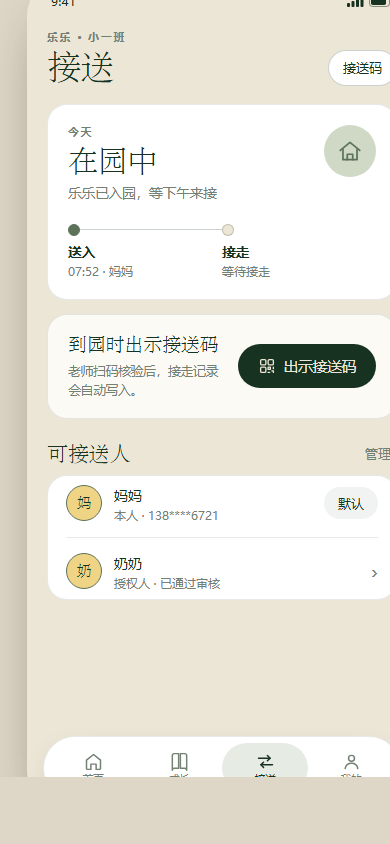
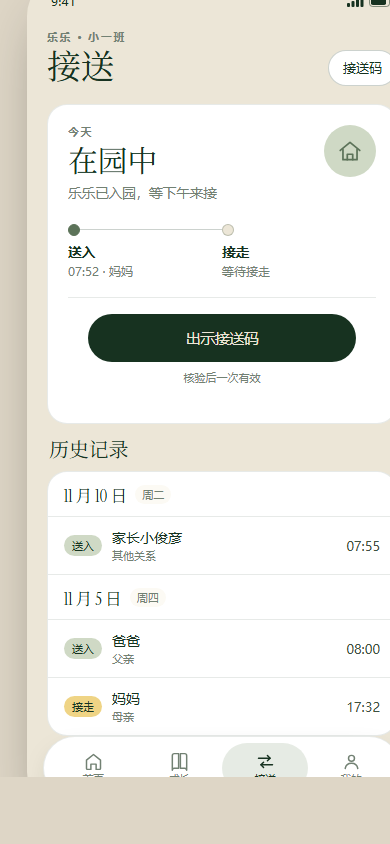
docs(design): 接送原型补齐历史记录并收回二维码 CTA
原型初版缺真实页面存在的「历史记录」，同时多了二维码卡与可接送人。
按登录态实际页面调整：凭证卡内放二维码 CTA，下面接历史记录列表。

diff --git a/docs/design-previews/2026-11-11-dna-validation/parent/02-pickup/index.html b/docs/design-previews/2026-11-11-dna-validation/parent/02-pickup/index.html
@@ -59,44 +59,52 @@
         </ol>
 
         <div class="rail-line" aria-hidden="true"><span></span></div>
+
+        <div class="pass-foot">
+          <button class="btn btn--primary btn--block" type="button">出示接送码</button>
+          <p class="pass-note">核验后一次有效</p>
+        </div>
       </section>
 
-      <section class="qr-card card card--soft" aria-labelledby="qr-title">
-        <div>
-          <h2 id="qr-title">到园时出示接送码</h2>
-          <p class="muted qr-note">老师扫码核验后，接走记录会自动写入。</p>
-        </div>
-        <button class="btn btn--primary qr-btn" type="button">
-          <svg width="18" height="18" viewBox="0 0 24 24" fill="none" stroke="currentColor" stroke-width="1.8" stroke-linecap="round" stroke-linejoin="round" aria-hidden="true"><rect x="3.5" y="3.5" width="7" height="7" rx="1.6"/><rect x="13.5" y="3.5" width="7" height="7" rx="1.6"/><rect x="3.5" y="13.5" width="7" height="7" rx="1.6"/><path d="M13.5 13.5h3v3h-3zM20.5 13.5v2M13.5 20.5h2M18.5 18.5h2v2"/></svg>
-          出示接送码
-        </button>
-      </section>
-
-      <section class="people" aria-labelledby="people-title">
-        <div class="row between people-head">
-          <h2 id="people-title">可接送人</h2>
-          <button class="link-btn" type="button">管理</button>
-        </div>
-        <div class="card people-card">
-          <div class="row-item">
-            <div class="row">
-              <span class="avatar avatar--sm" aria-hidden="true">妈</span>
-              <div>
-                <b class="person-name">妈妈</b>
-                <p class="person-sub">本人 · 138****6721</p>
-              </div>
+      <section class="history" aria-labelledby="history-title">
+        <h2 id="history-title" class="history-title">历史记录</h2>
+        <div class="ledger">
+          <div class="day">
+            <div class="day-head">
+              <span class="day-title">11 月 10 日</span>
+              <span class="day-week">周二</span>
             </div>
-            <span class="chip chip--xs">默认</span>
+            <div class="rec-row">
+              <span class="rec-type">送入</span>
+              <div class="rec-main">
+                <b class="rec-name">家长小俊彦</b>
+                <span class="rec-rel">其他关系</span>
+              </div>
+              <span class="rec-time">07:55</span>
+            </div>
           </div>
-          <div class="row-item">
-            <div class="row">
-              <span class="avatar avatar--sm" aria-hidden="true">奶</span>
-              <div>
-                <b class="person-name">奶奶</b>
-                <p class="person-sub">授权人 · 已通过审核</p>
-              </div>
+
+          <div class="day">
+            <div class="day-head">
+              <span class="day-title">11 月 5 日</span>
+              <span class="day-week">周四</span>
             </div>
-            <span class="chev" aria-hidden="true">›</span>
+            <div class="rec-row">
+              <span class="rec-type">送入</span>
+              <div class="rec-main">
+                <b class="rec-name">爸爸</b>
+                <span class="rec-rel">父亲</span>
+              </div>
+              <span class="rec-time">08:00</span>
+            </div>
+            <div class="rec-row">
+              <span class="rec-type rec-type--out">接走</span>
+              <div class="rec-main">
+                <b class="rec-name">妈妈</b>
+                <span class="rec-rel">母亲</span>
+              </div>
+              <span class="rec-time">17:32</span>
+            </div>
           </div>
         </div>
       </section>

diff --git a/docs/design-previews/2026-11-11-dna-validation/parent/02-pickup/styles.css b/docs/design-previews/2026-11-11-dna-validation/parent/02-pickup/styles.css
@@ -86,50 +86,94 @@
 
 .rail-line { display: none; }
 
-.qr-card {
+.pass-foot {
+  display: grid;
+  gap: 8px;
+  margin-top: 18px;
+  padding: 16px 20px 18px;
+  border-top: 1px solid var(--hair);
+}
+
+.pass-note {
+  margin: 0;
+  text-align: center;
+  font-size: 11px;
+  color: var(--ink-soft);
+}
+
+.history { margin-top: 4px; }
+
+.history-title {
+  margin: 0 0 8px 2px;
+  font-family: var(--serif);
+  font-size: 20px;
+  font-weight: 400;
+  letter-spacing: -0.2px;
+}
+
+.ledger {
+  overflow: hidden;
+  border: 1px solid var(--hair);
+  border-radius: 20px;
+  background: var(--card);
+}
+
+.day + .day { border-top: 1px solid var(--hair); }
+
+.day-head {
   display: flex;
   align-items: center;
-  justify-content: space-between;
-  gap: 14px;
-  margin-bottom: 22px;
+  gap: 8px;
+  min-height: 44px;
+  padding: 4px 16px;
 }
 
-.qr-card h2 { font-size: 19px; }
+.day-title { font-family: var(--serif); font-size: 17px; }
 
-.qr-note {
-  margin: 5px 0 0;
-  font-size: 12.5px;
-  line-height: 1.5;
-}
-
-.qr-btn { flex: 0 0 auto; height: 44px; }
-
-.people-head { margin-bottom: 8px; }
-
-.link-btn {
-  border: 0;
-  background: transparent;
+.day-week {
+  padding: 2px 7px;
+  border-radius: 999px;
+  background: var(--card-soft);
   color: var(--ink-soft);
-  font-family: var(--sans);
+  font-size: 11px;
+}
+
+.rec-row {
+  display: flex;
+  align-items: center;
+  gap: 10px;
+  min-height: 58px;
+  padding: 9px 16px;
+  border-top: 1px solid var(--hair);
+}
+
+.rec-type {
+  flex: none;
+  padding: 3px 8px;
+  border-radius: 999px;
+  background: var(--sage-soft);
+  color: var(--pine);
+  font-size: 11px;
+  font-weight: 500;
+}
+
+.rec-type--out { background: var(--marigold-soft); }
+
+.rec-main {
+  display: flex;
+  flex: 1;
+  flex-direction: column;
+  gap: 1px;
+  min-width: 0;
+}
+
+.rec-name { font-size: 14px; font-weight: 500; }
+
+.rec-rel { font-size: 11px; color: var(--ink-soft); }
+
+.rec-time {
+  flex: none;
   font-size: 13px;
-  cursor: pointer;
+  font-weight: 500;
+  color: var(--ink-mid);
 }
-
-.people-card { padding: 6px 18px; }
-
-.avatar--sm {
-  width: 36px;
-  height: 36px;
-  font-size: 15px;
-  border-width: 1.5px;
-}
-
-.person-name { font-size: 14px; font-weight: 500; }
-
-.person-sub {
-  margin: 2px 0 0;
-  font-size: 12px;
-  color: var(--ink-soft);
-}
-
-.chev { color: var(--ink-soft); font-size: 20px; line-height: 1; }

diff --git a/docs/design-changes/2026-11-11-pickup-dna-migration.md b/docs/design-changes/2026-11-11-pickup-dna-migration.md
@@ -54,6 +54,7 @@ DNA 验证集只有 HTML 原型。原型里用了内联 SVG、语义标签、Goo
 ## 差异
 
 - 原型里的 `page-title` 68rpx 与 `pass-state` 60rpx 在小程序里按 750 基准换算；桌面浏览器原型不可直接对照像素。
+- 原型初版缺「历史记录」，却多了真实页面没有的二维码卡与「可接送人」。已按真实页面补齐历史、移除多余区块，并把二维码 CTA 收进凭证卡。
 - 原型用渐变占位照片，接送页无图片，不涉及。
 
 ## 后续
